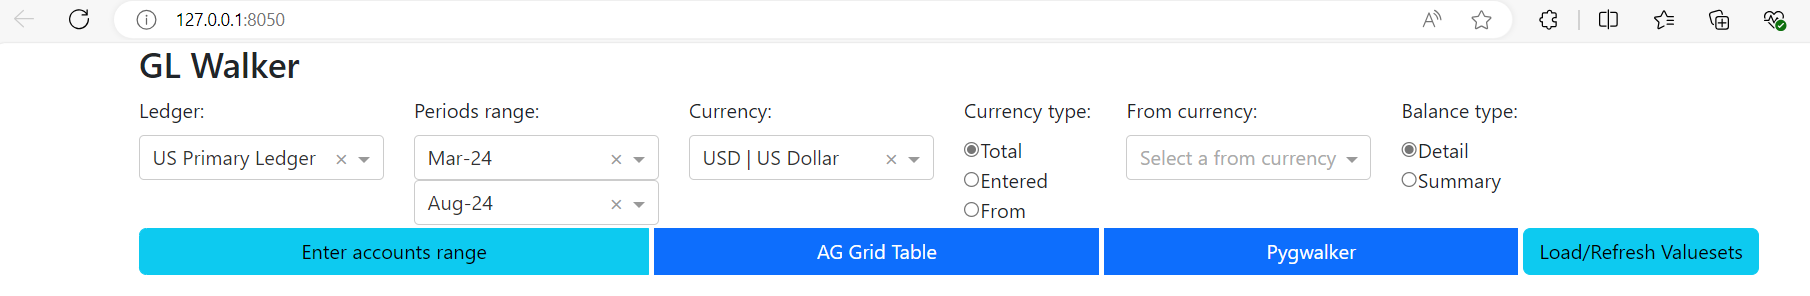
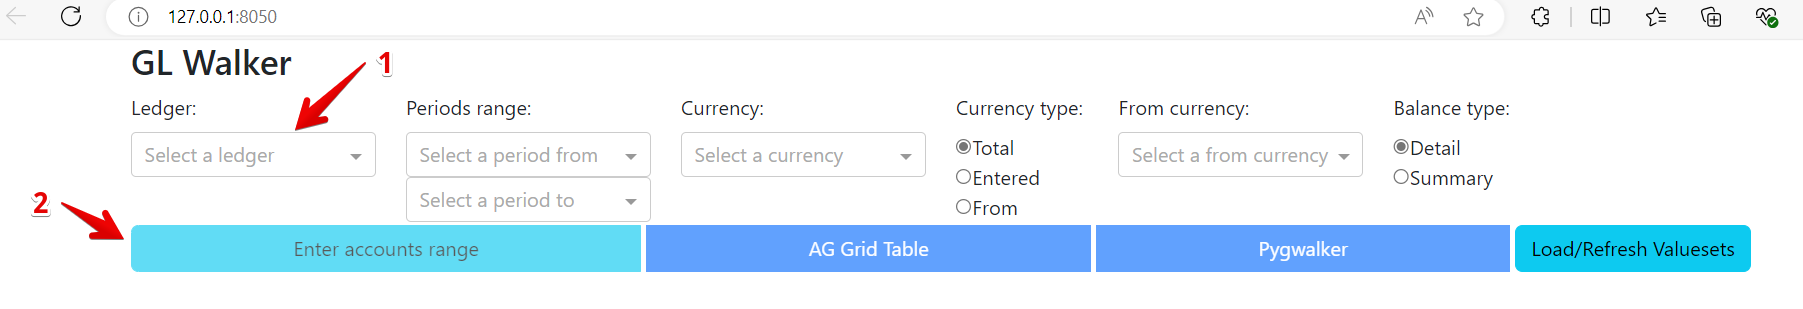
readme

diff --git a/README.md b/README.md
@@ -90,9 +90,17 @@ This project is licensed under the MIT License. See the LICENSE file for more de
 If you have questions, feel free to reach out via GitHub Issues or [email@rudenko.s@gmail.com].
 
 
-test pic
+## Sample screen shots
+
+
 ![1-st screen](images/1.png)
------------------------------
-![1-st screen](images/2.png)
-=======
-master
+
+
+![2-st screen](images/2.png)
+
+
+![3-st screen](images/3.png)
+
+
+![4-st screen](images/4.png)
+
